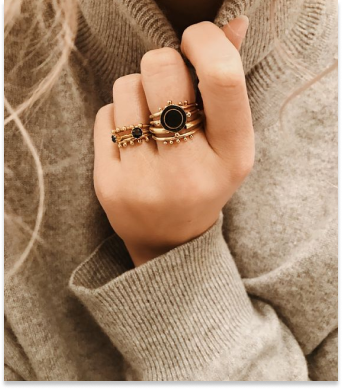
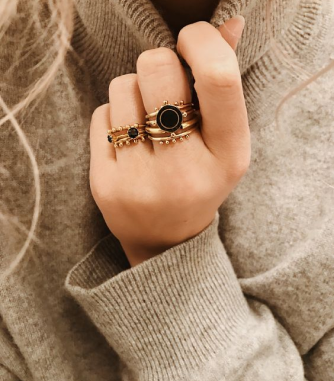
Add files via upload

diff --git a/lesson_9/css/style.css b/lesson_9/css/style.css
@@ -373,6 +373,7 @@ h4 {
 .how_we_work {
     margin: 0 auto;
     max-width: 1220px;
+    margin-bottom: 50px;
 }
 .center {
     text-align: center;
@@ -397,6 +398,7 @@ h4 {
     text-align: center;
     font-weight: 400;
     color: #7D7D7D;
+    margin: 37px;
 }
 .how_we_work_card_img {
     margin: 0 auto;
@@ -421,9 +423,7 @@ h4 {
     margin-bottom: 16px;
     text-align: center;
 }
-.how_we_work_card p {
-    margin: 37px;
-}
+
 .how_we_work_card a {
     font-family: "inter";
     font-size: 18px;
@@ -437,6 +437,7 @@ h4 {
 .jewellery {
     max-width: 1214px;
     font-size: 0;
+    margin-bottom: 50px;
 }
 .title_jewellery {
     max-width: 488px;
@@ -461,15 +462,26 @@ h4 {
 }
 .jewellery_content {
     display: inline-block;
-    padding-top: 32px;
+    vertical-align: top;
+    margin: 32px 45px 0px 0px;
 }
 .jewellery_content_one_border_img {
+    font-size: 0;
     display: inline-block;
     border: solid 1px #000;
     margin-bottom: 34px;
+    max-width: 334px;
+    max-height: 381px;
 }
 .jewellery_content_one_img {
+    width: 100%;
+    height: 100%;
     margin: 9px -10px -9px 10px;
+    background-color: #757575;
+}
+.jewellery_content_one_img:hover {
+    margin: 0px 0px 0px 0px;
+    transition: all 0.5s;
 }
 .name_price {
     font-family: "Cormorant Infant";
@@ -491,3 +503,49 @@ h4 {
 .sub-title_jewellery_content p {
     line-height: 1,13;
 }
+.my_game {
+    max-width: 1200px;
+    border: solid 1px #585353;
+    border-radius: 20px;
+}
+.my_game_h2 {
+    text-align: center;
+    font-family: "inter";
+    font-weight: 600;
+    font-size: 50px;
+    color: #a97575;
+}
+.game {
+    margin: 0 auto;
+    max-width: 800px;
+    border: solid 1px #585353;
+    border-radius: 20px;
+    padding: 50px;
+    font-size: 0;
+}
+.first_step {
+    margin: 0 auto;
+    width: 40px;
+    height: 60px;
+    background-color: #433f8a;
+}
+.second_step ,.third_step {
+    width: 50%;
+    height: 40px;
+    background-color: #2d2b66;
+    display: inline-block;
+    visibility: hidden;
+}
+/* .third_step {
+    width: 50%;
+    height: 40px;
+    background-color: #2d2b66;
+    visibility: hidden;
+    display: inline-block;
+} */
+.first_step:hover ~ .second_step,
+.third_step {
+    visibility: visible;
+}
+
+

diff --git a/lesson_9/index.html b/lesson_9/index.html
@@ -324,7 +324,7 @@
                     </p>
                 </div>
                 <div class="jewellery_content_one_border_img">
-                    <img class="jewellery_content_one_img" src="img/img_one.png" alt="rings">
+                    <img class="jewellery_content_one_img" src="img/img_two.png" alt="rings">
                 </div>
                 <div class="name_price">
                     <h6 class="name">Embossed hoop earrings</h6>
@@ -332,8 +332,21 @@
                 </div>
             </div>
         </div>
+        <div class="my_game">
+            <h2 class="my_game_h2">Приклад моєї гри</h2>
+            <div class="game">
+                <div class="first_step"></div>
+                <div class="second_step"></div>
+                <div class="third_step"></div>
+                <div class="fourth_step"></div>
+                <div class="fifth_step"></div>
+                <div class="sixth_step"></div>
+                <div class="seventh_step"></div>
+                <div class="eighth_step"></div>
+                <div class="ninth_step"></div>
+                <div class="tenth_step"></div>
+            </div>
+        </div>
     </main>
-
-    
 </body>
 </html>
